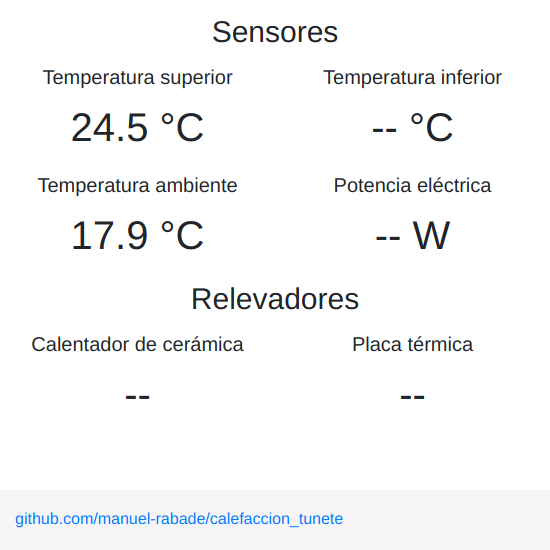
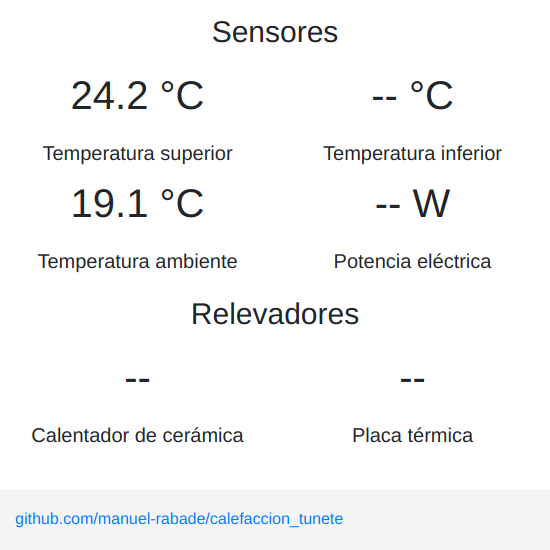
movemos etiqueta debajo de los indicadores

diff --git a/software/htdocs/css/tunete.css b/software/htdocs/css/tunete.css
@@ -4,12 +4,11 @@ html {
 }
 
 body {
-  padding-top: 15px;
-  padding-bottom: 15px;
   margin-bottom: 60px;
 }
 
 h1 {
+    margin-top: 15px;
     margin-bottom: 15px;
     text-align: center;
     font-size: 30px;
@@ -21,7 +20,7 @@ h2 {
     font-size: 20px;
 }
 
-.sensor {
+.gauge {
     font-size: 40px;
     text-align: center;
 }

diff --git a/software/htdocs/index.php b/software/htdocs/index.php
@@ -30,20 +30,20 @@ $owm = owmTemperature();
           <h1>Sensores</h1>
           <div class="row">
             <div class="col-6 col-md-3">
+              <p class="gauge"><?php echo $particle['temperature']; ?> &deg;C</p>
               <h2>Temperatura superior</h2>
-              <p class="sensor"><?php echo $particle['temperature']; ?> &deg;C</p>
             </div>
             <div class="col-6 col-md-3">
+              <p class="gauge">-- &deg;C</p>
               <h2>Temperatura inferior</h2>
-              <p class="sensor">-- &deg;C</p>
             </div>
             <div class="col-6 col-md-3">
+              <p class="gauge"><?php echo $owm['temperature']; ?> &deg;C</p>
               <h2>Temperatura ambiente</h2>
-              <p class="sensor"><?php echo $owm['temperature']; ?> &deg;C</p>
             </div>
             <div class="col-6 col-md-3">
+              <p class="gauge">-- W</p>
               <h2>Potencia eléctrica</h2>
-              <p class="sensor">-- W</p>
             </div>
           </div>
         </div>
@@ -51,12 +51,12 @@ $owm = owmTemperature();
           <h1>Relevadores</h1>
           <div class="row">
             <div class="col-6 col-md-6">
+              <p class="gauge">--</p>
               <h2>Calentador de cerámica</h2>
-              <p class="sensor">--</p>
             </div>
             <div class="col-6 col-md-6">
+              <p class="gauge">--</p>
               <h2>Placa térmica</h2>
-              <p class="sensor">--</p>
             </div>
           </div>
         </div>
